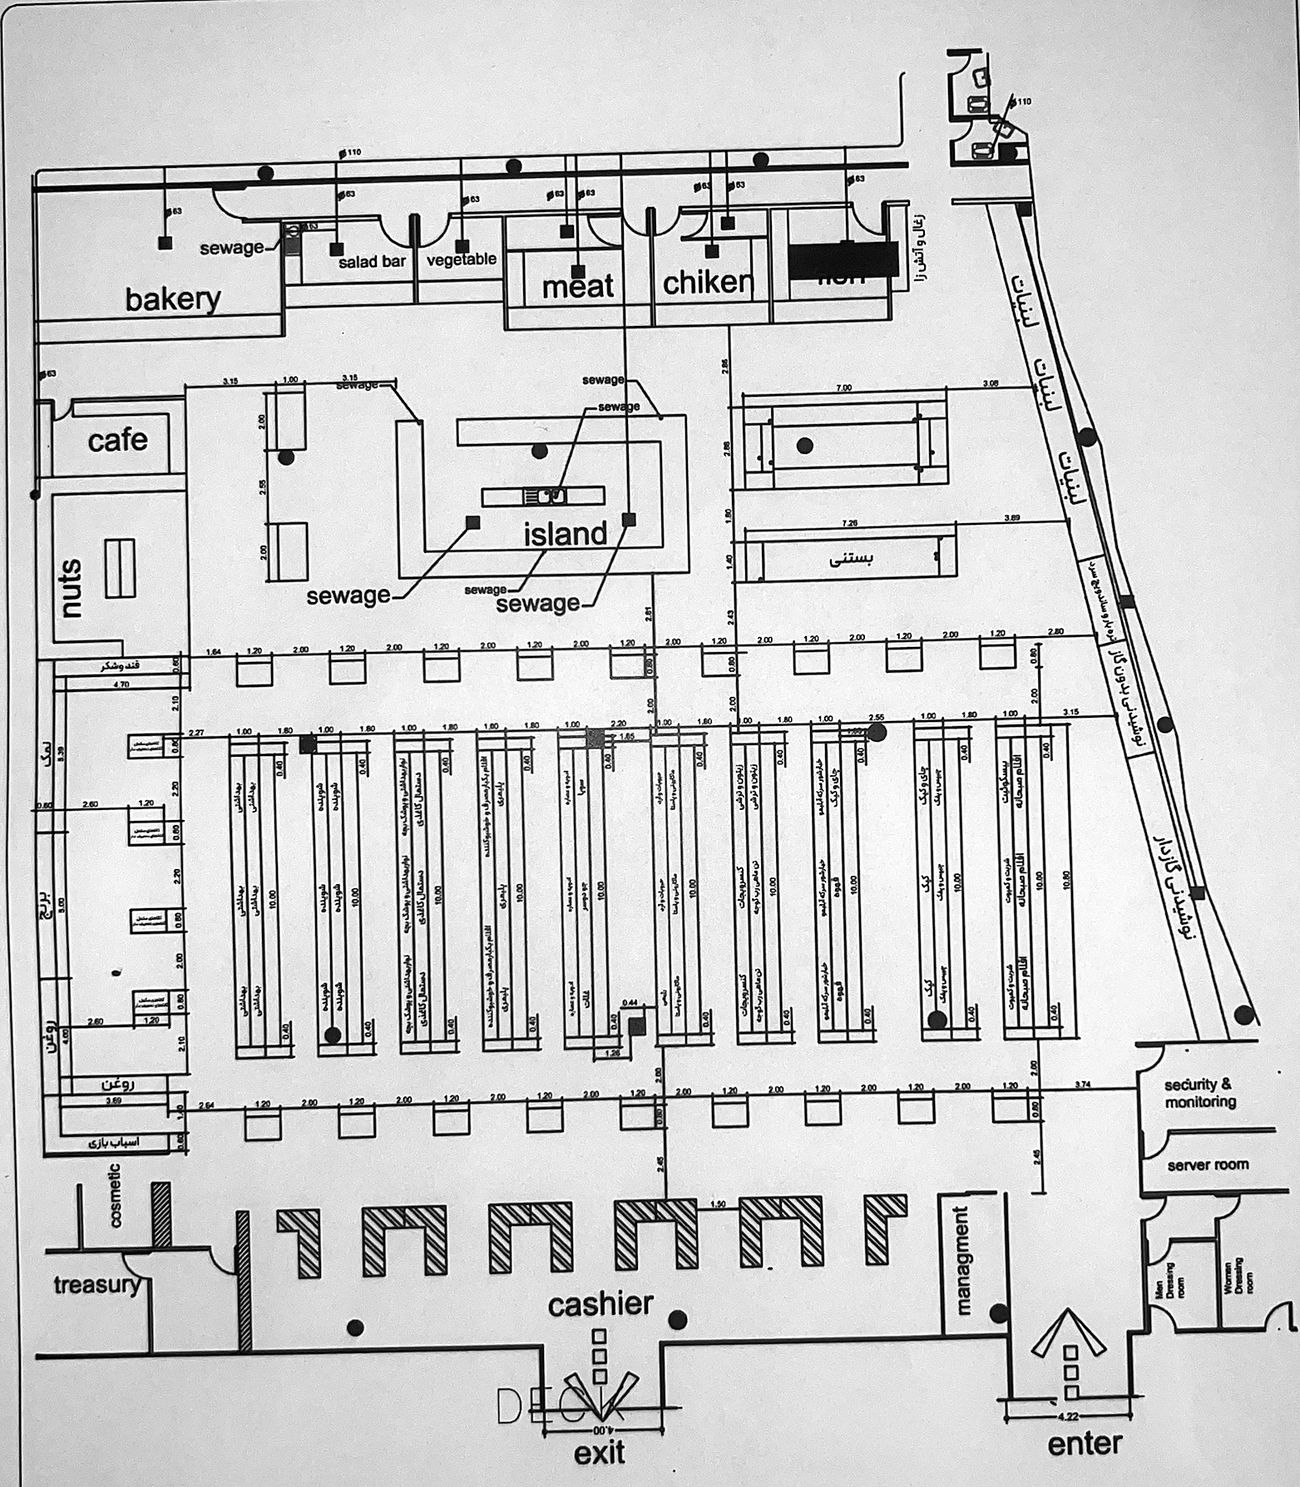
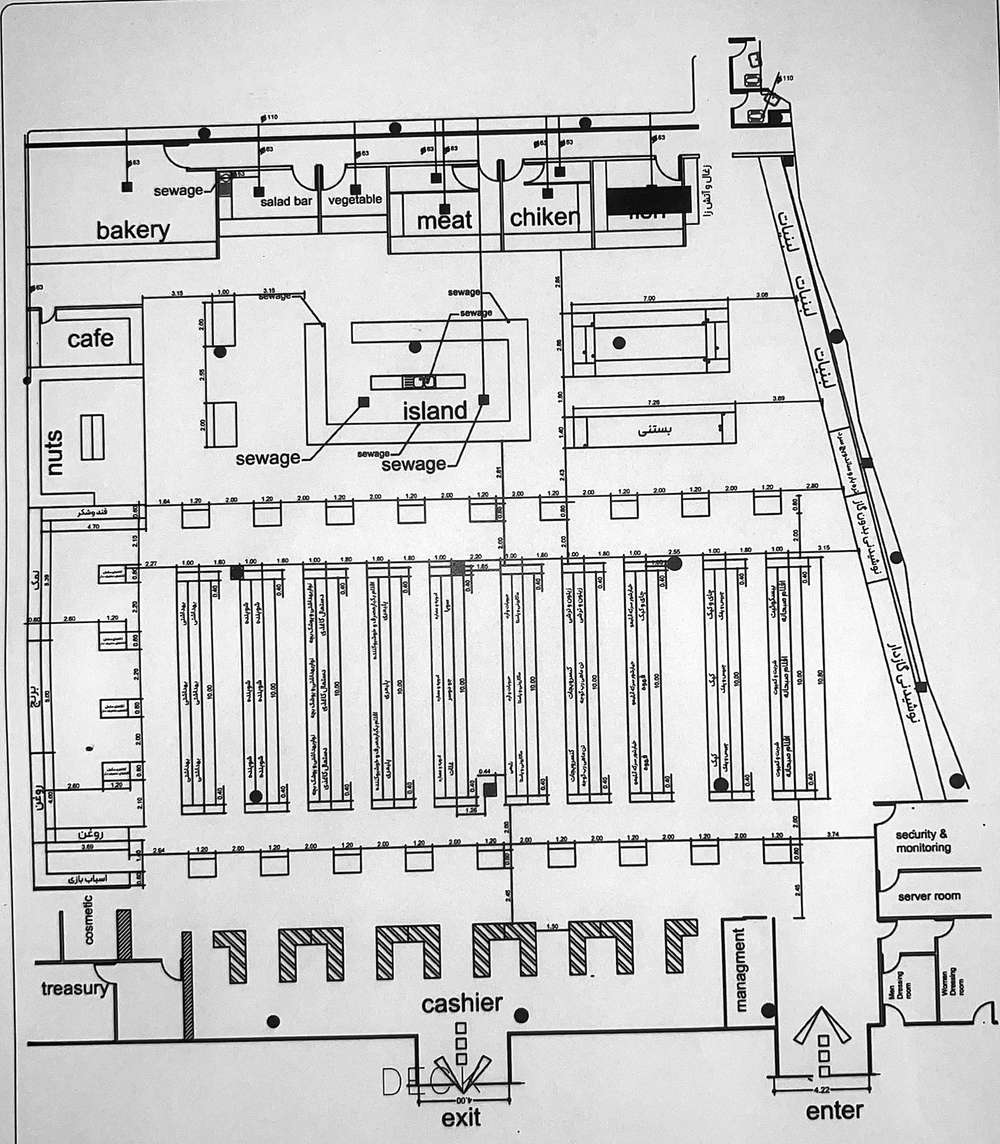
Make design-2 annotated plan load reliably
The single-file report was ~1.2 MB with the second plan image last; it did
not show in the in-app viewer. Plan images re-encoded (1000 px, grayscale
JPEG) so the standalone file drops to ~650 KB, lazy loading removed, and
each design section now opens with its annotated plan above the findings.

Claude-Session: https://claude.ai/code/session_016Ggco4kKDSmPgJRWB9KxGZ

diff --git a/docs/merchandising/store-layout-review.html b/docs/merchandising/store-layout-review.html
@@ -545,14 +545,8 @@ figcaption{color:var(--ink-faint);font-size:.85rem;margin-top:.4rem}
 
     <details id="d-1">
       <summary><span>طرح ۱ — با نقشهٔ نشانهگذاریشده</span><em>۳ مورد</em></summary>
-      <p class="pro">قوت: بلوک غذایی و غیرغذایی منظم · صبحانه رو به لبنیات · دو ردیف پروموشن</p>
-      <ol class="rows">
-        <li class="row" id="A-01"><span class="code">A-01</span><span class="sev major"><i></i>مهم</span><p><b>راهروهای ۱۰ متری بدون راهروی میانی؛ حدود ۲۰ سرقفسه.</b><span class="fix">اصلاح: افزودن راهروی عرضی میانی.</span></p></li>
-        <li class="row" id="A-02"><span class="code">A-02</span><span class="sev major"><i></i>مهم</span><p><b>مواد پختوپز از برنج و روغن دور افتادهاند.</b><span class="fix">اصلاح: پختوپز کنار دیوار برنج و روغن.</span></p></li>
-        <li class="row" id="A-03"><span class="code">A-03</span><span class="sev major"><i></i>مهم</span><p><b>میزهای پروموشن جلو داخل فضای صفاند.</b><span class="fix">اصلاح: انتقال به راهروی میانی.</span></p></li>
-      </ol>
       <figure class="plan"><div class="plan-wrap">
-        <img src="assets/review-plan-1.jpg" alt="نقشهٔ طرح ۱ با کد یافتهها" loading="lazy">
+        <img src="assets/review-plan-1.jpg" alt="نقشهٔ طرح ۱ با کد یافتهها">
         <a class="mk major" href="#C-01" style="left:84.23%;top:86.08%" title="ورودی بین اتاق مدیریت و رختکن؛ اولین قفسهٔ سمت راست نوشابه است.">C-01</a>
         <a class="mk crit" href="#C-02" style="left:43.08%;top:78.68%" title="فضای صف فقط ۲٫۱۰ تا ۲٫۴۵ متر است؛ در ساعت اوج راهرو بسته میشود.">C-02</a>
         <a class="mk crit" href="#C-03" style="left:65.38%;top:37.66%" title="بستنی ابتدای مسیر است و تا صندوق آب میشود.">C-03</a>
@@ -570,22 +564,19 @@ figcaption{color:var(--ink-faint);font-size:.85rem;margin-top:.4rem}
         <a class="mk major" href="#A-01" style="left:55.00%;top:59.18%" title="راهروهای ۱۰ متری بدون راهروی میانی؛ حدود ۲۰ سرقفسه.">A-01</a>
         <a class="mk major" href="#A-02" style="left:26.92%;top:59.18%" title="مواد پختوپز از برنج و روغن دور افتادهاند.">A-02</a>
         <a class="mk major" href="#A-03" style="left:61.54%;top:75.66%" title="میزهای پروموشن جلو داخل فضای صفاند.">A-03</a>
-      </div><figcaption>روی هر کد بزنید تا شرحش را ببینید.</figcaption></figure>
+      </div><figcaption>نقشهٔ نشانهگذاریشدهٔ طرح ۱ — روی هر کد بزنید تا شرحش را ببینید.</figcaption></figure>
+      <p class="pro">قوت: بلوک غذایی و غیرغذایی منظم · صبحانه رو به لبنیات · دو ردیف پروموشن</p>
+      <ol class="rows">
+        <li class="row" id="A-01"><span class="code">A-01</span><span class="sev major"><i></i>مهم</span><p><b>راهروهای ۱۰ متری بدون راهروی میانی؛ حدود ۲۰ سرقفسه.</b><span class="fix">اصلاح: افزودن راهروی عرضی میانی.</span></p></li>
+        <li class="row" id="A-02"><span class="code">A-02</span><span class="sev major"><i></i>مهم</span><p><b>مواد پختوپز از برنج و روغن دور افتادهاند.</b><span class="fix">اصلاح: پختوپز کنار دیوار برنج و روغن.</span></p></li>
+        <li class="row" id="A-03"><span class="code">A-03</span><span class="sev major"><i></i>مهم</span><p><b>میزهای پروموشن جلو داخل فضای صفاند.</b><span class="fix">اصلاح: انتقال به راهروی میانی.</span></p></li>
+      </ol>
     </details>
 
     <details id="d-2">
       <summary><span>طرح ۲ — با نقشهٔ نشانهگذاریشده</span><em>۶ مورد</em></summary>
-      <p class="pro">قوت: راهروی میانی و حدود ۳۸ سرقفسه · پختوپز نزدیک برنج و روغن</p>
-      <ol class="rows">
-        <li class="row" id="B-01"><span class="code">B-01</span><span class="sev crit"><i></i>بحرانی</span><p><b>شوینده و قهوه در یک گوندولا، پشتبهپشت.</b><span class="fix">اصلاح: جداسازی کامل شوینده از خوراکی.</span></p></li>
-        <li class="row" id="B-02"><span class="code">B-02</span><span class="sev crit"><i></i>بحرانی</span><p><b>فقط ۲٫۱۰ متر تا صندوق؛ ردیف پروموشن جلو حذف شده.</b><span class="fix">اصلاح: کوتاهکردن گوندولاهای ردیف پایین.</span></p></li>
-        <li class="row" id="B-03"><span class="code">B-03</span><span class="sev major"><i></i>مهم</span><p><b>غیرغذایی در دو بلوک پخش است؛ بهداشتی و پوشک جدا.</b><span class="fix">اصلاح: یک بلوک واحد غیرغذایی.</span></p></li>
-        <li class="row" id="B-04"><span class="code">B-04</span><span class="sev major"><i></i>مهم</span><p><b>ادویه رو به قفسهٔ بهداشتی.</b><span class="fix">اصلاح: ادویه کنار حبوبات.</span></p></li>
-        <li class="row" id="B-05"><span class="code">B-05</span><span class="sev minor"><i></i>جزئی</span><p><b>راهروهای ۱٫۷۰ متری سمت چپ، در کرانهٔ پایین استاندارد.</b><span class="fix">اصلاح: ۱٫۸۰ متر مثل طرح ۱.</span></p></li>
-        <li class="row" id="B-06"><span class="code">B-06</span><span class="sev minor"><i></i>جزئی</span><p><b>اقلام صبحانه در دو جا تکرار شده.</b><span class="fix">اصلاح: یک جای اصلی رو به لبنیات.</span></p></li>
-      </ol>
       <figure class="plan"><div class="plan-wrap">
-        <img src="assets/review-plan-2.jpg" alt="نقشهٔ طرح ۲ با کد یافتهها" loading="lazy">
+        <img src="assets/review-plan-2.jpg" alt="نقشهٔ طرح ۲ با کد یافتهها">
         <a class="mk major" href="#C-01" style="left:80.38%;top:86.84%" title="ورودی بین اتاق مدیریت و رختکن؛ اولین قفسهٔ سمت راست نوشابه است.">C-01</a>
         <a class="mk crit" href="#C-02" style="left:34.62%;top:78.70%" title="فضای صف فقط ۲٫۱۰ تا ۲٫۴۵ متر است؛ در ساعت اوج راهرو بسته میشود.">C-02</a>
         <a class="mk crit" href="#C-03" style="left:64.62%;top:38.67%" title="بستنی ابتدای مسیر است و تا صندوق آب میشود.">C-03</a>
@@ -607,7 +598,16 @@ figcaption{color:var(--ink-faint);font-size:.85rem;margin-top:.4rem}
         <a class="mk minor" href="#B-05" style="left:28.08%;top:48.85%" title="راهروهای ۱٫۷۰ متری سمت چپ، در کرانهٔ پایین استاندارد.">B-05</a>
         <a class="mk minor" href="#B-06" style="left:76.54%;top:50.20%" title="اقلام صبحانه در دو جا تکرار شده.">B-06</a>
         <a class="mk minor" href="#B-06" style="left:77.31%;top:71.91%" title="اقلام صبحانه در دو جا تکرار شده.">B-06</a>
-      </div><figcaption>روی هر کد بزنید تا شرحش را ببینید.</figcaption></figure>
+      </div><figcaption>نقشهٔ نشانهگذاریشدهٔ طرح ۲ — روی هر کد بزنید تا شرحش را ببینید.</figcaption></figure>
+      <p class="pro">قوت: راهروی میانی و حدود ۳۸ سرقفسه · پختوپز نزدیک برنج و روغن</p>
+      <ol class="rows">
+        <li class="row" id="B-01"><span class="code">B-01</span><span class="sev crit"><i></i>بحرانی</span><p><b>شوینده و قهوه در یک گوندولا، پشتبهپشت.</b><span class="fix">اصلاح: جداسازی کامل شوینده از خوراکی.</span></p></li>
+        <li class="row" id="B-02"><span class="code">B-02</span><span class="sev crit"><i></i>بحرانی</span><p><b>فقط ۲٫۱۰ متر تا صندوق؛ ردیف پروموشن جلو حذف شده.</b><span class="fix">اصلاح: کوتاهکردن گوندولاهای ردیف پایین.</span></p></li>
+        <li class="row" id="B-03"><span class="code">B-03</span><span class="sev major"><i></i>مهم</span><p><b>غیرغذایی در دو بلوک پخش است؛ بهداشتی و پوشک جدا.</b><span class="fix">اصلاح: یک بلوک واحد غیرغذایی.</span></p></li>
+        <li class="row" id="B-04"><span class="code">B-04</span><span class="sev major"><i></i>مهم</span><p><b>ادویه رو به قفسهٔ بهداشتی.</b><span class="fix">اصلاح: ادویه کنار حبوبات.</span></p></li>
+        <li class="row" id="B-05"><span class="code">B-05</span><span class="sev minor"><i></i>جزئی</span><p><b>راهروهای ۱٫۷۰ متری سمت چپ، در کرانهٔ پایین استاندارد.</b><span class="fix">اصلاح: ۱٫۸۰ متر مثل طرح ۱.</span></p></li>
+        <li class="row" id="B-06"><span class="code">B-06</span><span class="sev minor"><i></i>جزئی</span><p><b>اقلام صبحانه در دو جا تکرار شده.</b><span class="fix">اصلاح: یک جای اصلی رو به لبنیات.</span></p></li>
+      </ol>
     </details>
 
 
